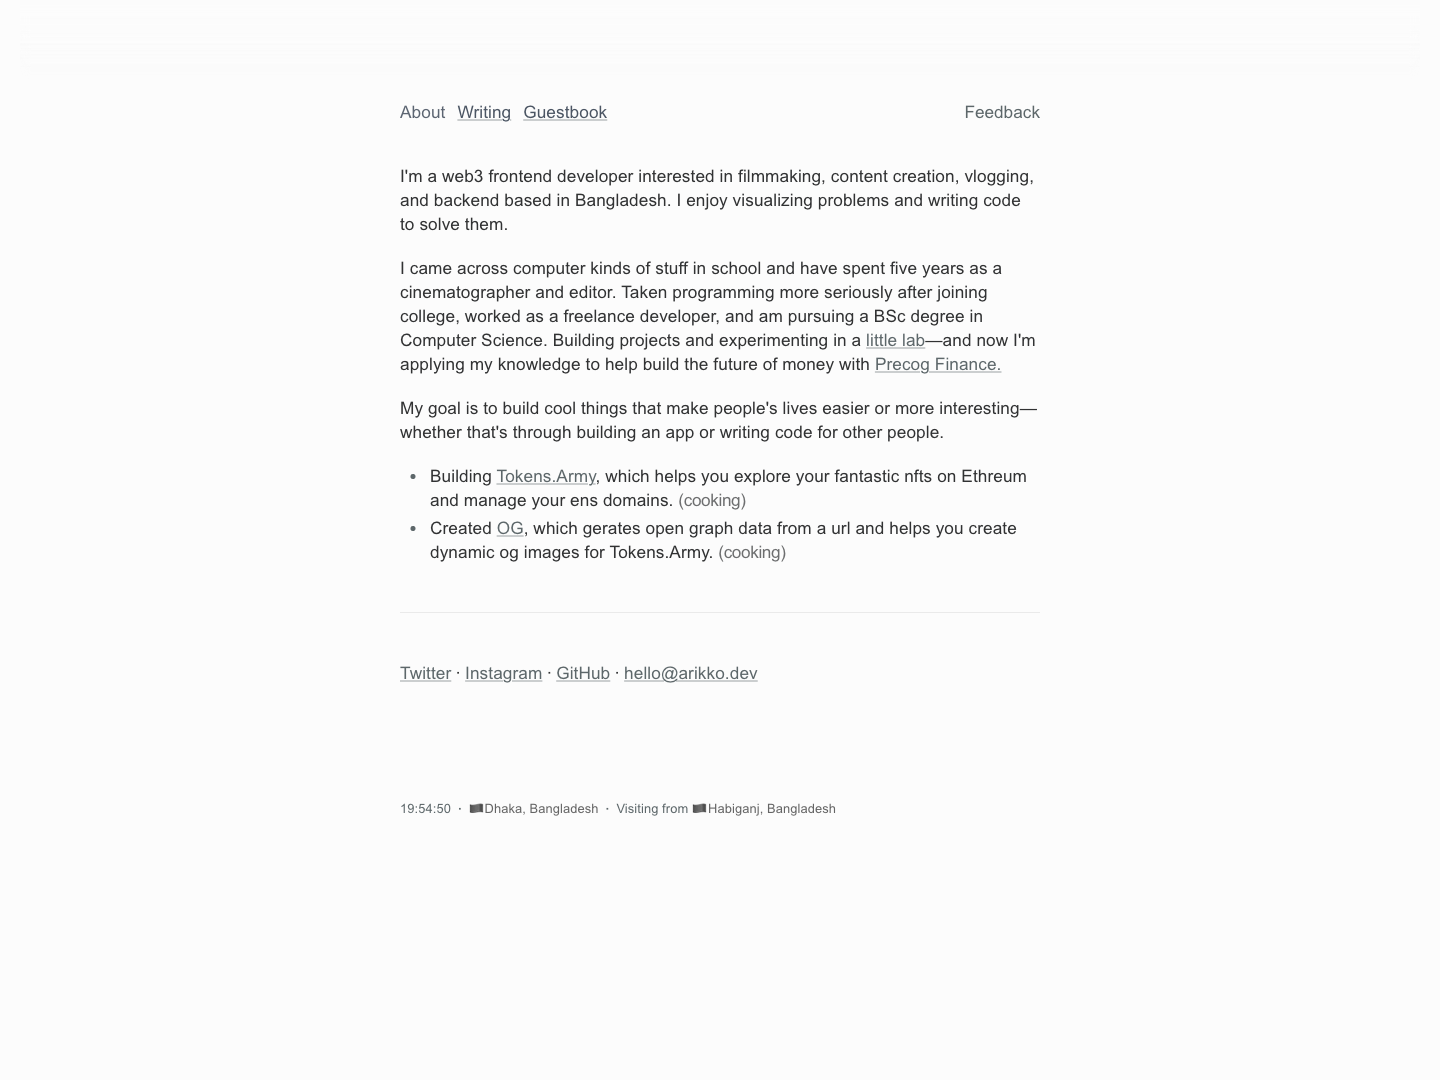
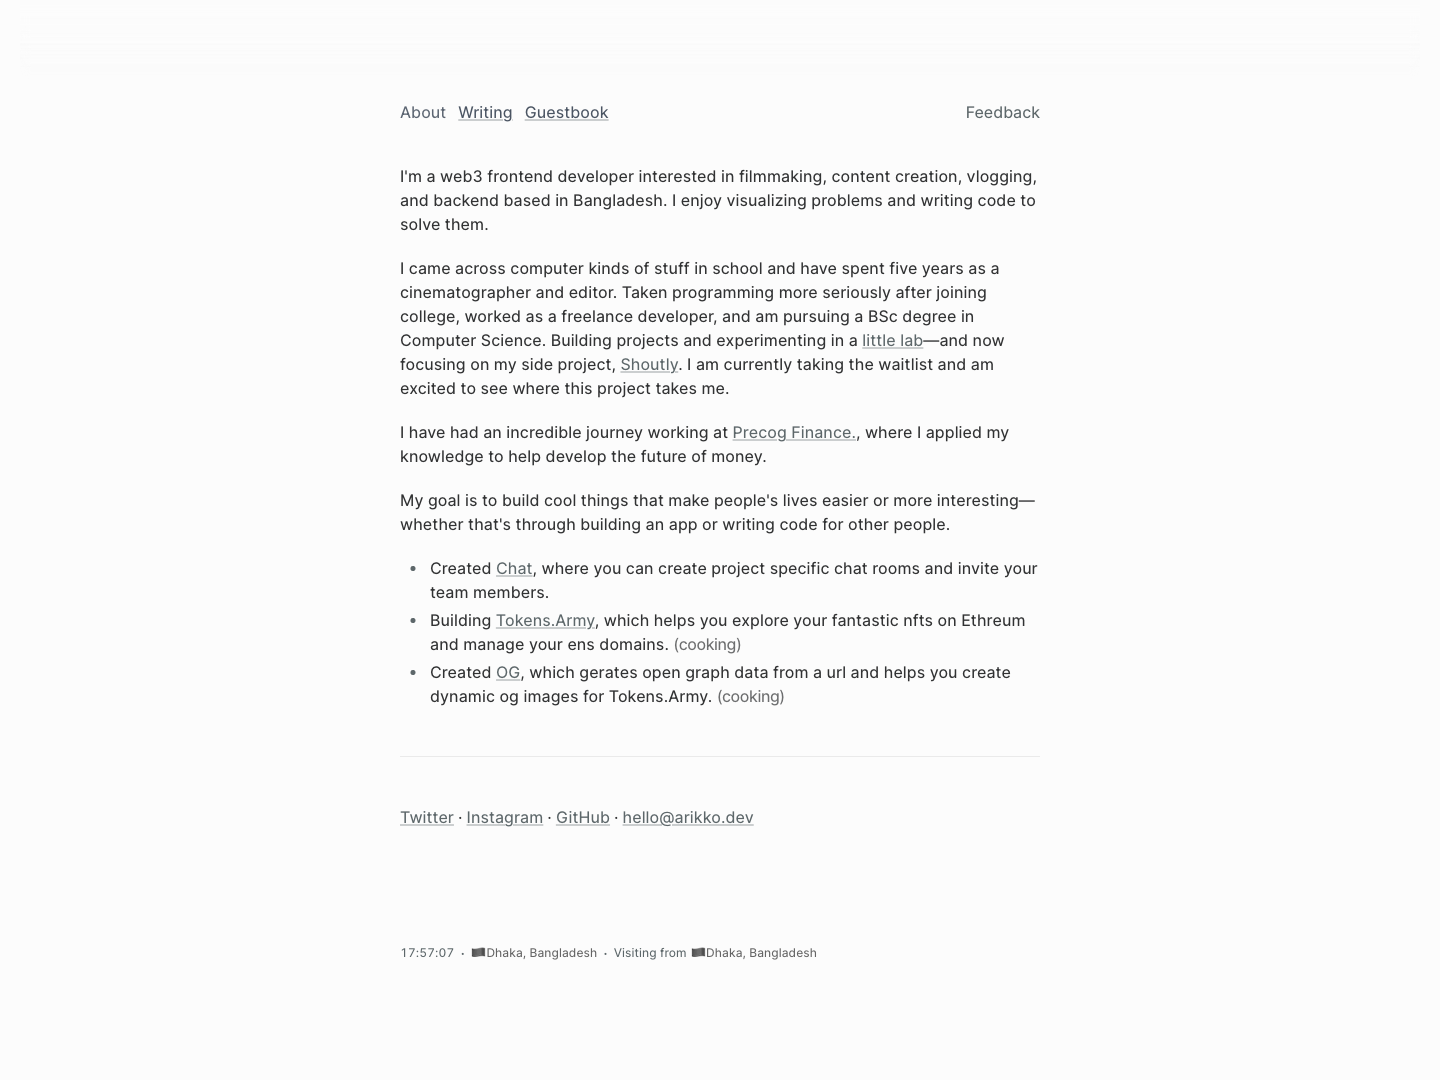
fix: writing

diff --git a/pages/index.tsx b/pages/index.tsx
@@ -20,18 +20,11 @@ const Home: NextPage = () => {
             and am pursuing a BSc degree in Computer Science. Building projects
             and experimenting in a{' '}
             <LinkPreview href="https://1x3.studio">little lab</LinkPreview>
-            —and now focusing on my side project,{' '}
-            <LinkPreview href="https://shoutly.club">Shoutly</LinkPreview>. I am
-            currently taking the waitlist and am excited to see where this
-            project takes me.
-          </p>
-
-          <p className="mt-5">
-            I have had an incredible journey working at{' '}
-            <LinkPreview href="https://precog.finance/">
-              Precog Finance.
-            </LinkPreview>
-            , where I applied my knowledge to help develop the future of money.
+            —and now writing html at{' '}
+            <LinkPreview href="https://roadmap.sh">roadmap.sh</LinkPreview>.
+            Building my side project,{' '}
+            <LinkPreview href="https://shoutly.club">Shoutly(beta)</LinkPreview>
+            .
           </p>
 
           <p className="mt-5">
